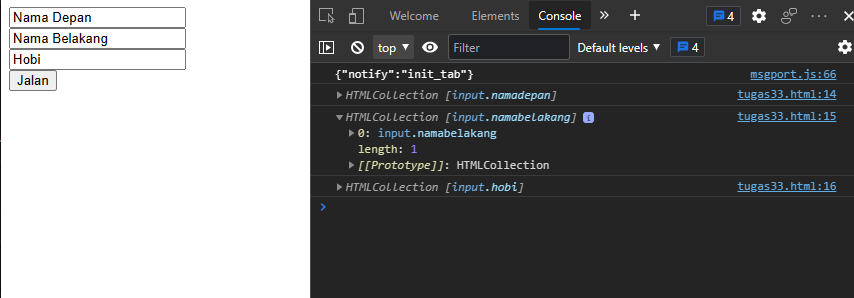
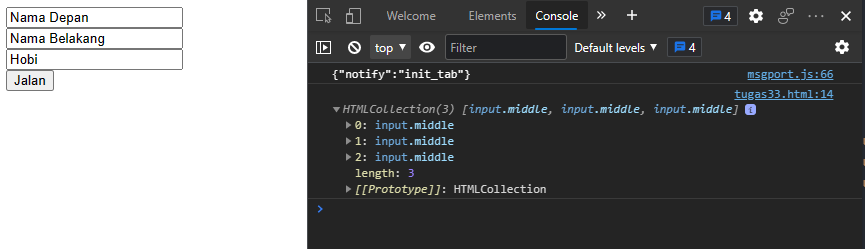
Replace pembetulan fungsi
pembetulan fungsi

diff --git a/tugas33.html b/tugas33.html
@@ -5,15 +5,14 @@
     <title>Belajar javascript - Niomc</title>
   </head>
   <body>
-    <input type="text"class="namadepan" name="" value="Nama Depan"><br>
-    <input type="text"class="namabelakang" name="" value="Nama Belakang"><br>
-    <input type="text"class="hobi" name="" value="Hobi"><br>
+    <input type="text"class="middle" name="" value="Nama Depan"><br>
+    <input type="text"class="middle" name="" value="Nama Belakang"><br>
+    <input type="text"class="middle" name="" value="Hobi"><br>
     <button type="button"onclick="inputScript()" name="button">Jalan</button>
     <script type="text/javascript">
       function inputScript() {
-        console.log(document.getElementsByClassName('namadepan'));
-        console.log(document.getElementsByClassName('namabelakang'));
-        console.log(document.getElementsByClassName('hobi'));
+        console.log(document.getElementsByClassName('middle'));
+
       }
 
     </script>
